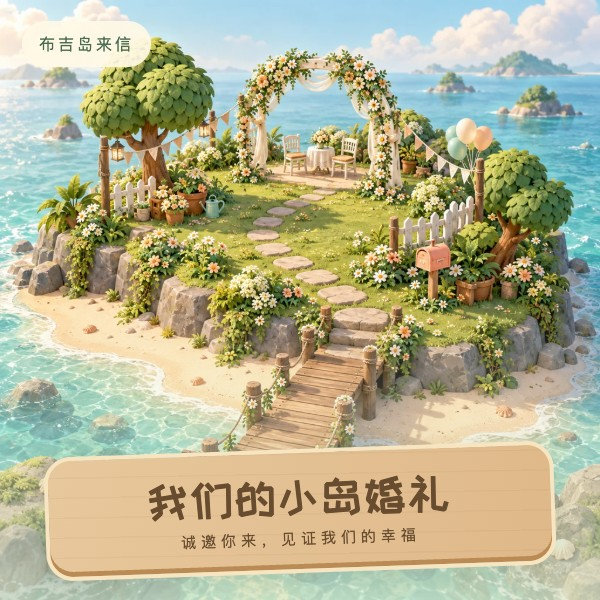
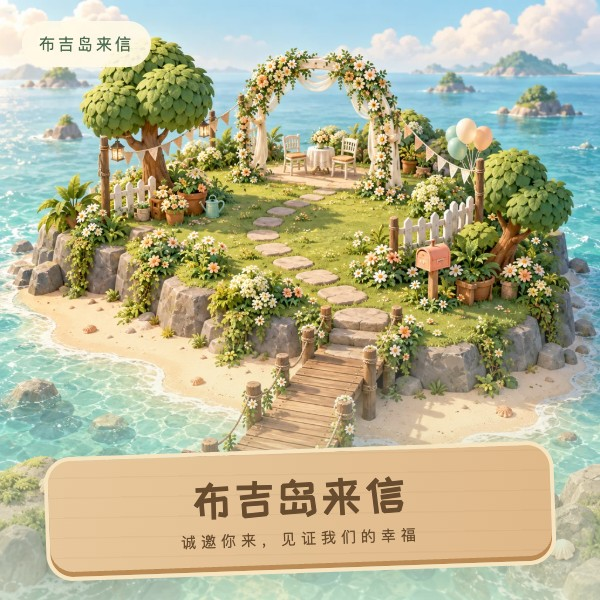
feat: rename invitation title to 布吉岛来信

Changed region(s): [[0.24, 0.78, 0.75, 0.87]]

diff --git a/index.html b/index.html
@@ -11,14 +11,14 @@
       name="description"
       content="诚邀您来小岛见证我们的幸福｜青州海岱禧合酒店"
     />
-    <meta property="og:title" content="我们的小岛婚礼" />
+    <meta property="og:title" content="布吉岛来信" />
     <meta
       property="og:description"
       content="诚邀您来小岛见证我们的幸福｜青州海岱禧合酒店"
     />
     <!-- 可修改：正式部署后，将 og:image 和 CONFIG.share.image 改为公网 HTTPS 分享插画地址。微信不读取 data URL 缩略图。 -->
     <meta property="og:image" content="" />
-    <title>刁勇辰与李汝静 · 我们的小岛婚礼</title>
+    <title>刁勇辰与李汝静 · 布吉岛来信</title>
     <!-- Tailwind CSS 3.4.17 离线编译，仅包含本页实际使用的工具类。 -->
     <style id="tailwind-css">
       *,
@@ -2539,7 +2539,7 @@
         <div class="cover-copy">
           <div class="edition">一封来自小岛的幸福邀请</div>
           <h1 id="cover-title">
-            <span>我们的小岛</span><span class="second-line">婚礼</span>
+            <span>布吉岛</span><span class="second-line">来信</span>
           </h1>
           <p class="cover-subtitle">邀请你一起见证幸福时刻</p>
         </div>
@@ -3162,7 +3162,7 @@
           { name: "幸福观察员", text: "一定要一直开心下去！" },
         ],
         share: {
-          title: "我们的小岛婚礼",
+          title: "布吉岛来信",
           description: "诚邀您来小岛见证我们的幸福｜青州海岱禧合酒店",
           image: "", // 可修改：公网 HTTPS 分享封面地址。可上传 assets/island-share.jpg，不可用 base64 或 file://
           link: "", // 可修改：线上请柬网址；为空时使用当前页面去除 # 的网址
@@ -3269,7 +3269,7 @@
                   ? dateWeek
                   : dateWeek + " 开始"),
         );
-        document.title = `${CONFIG.groom}与${CONFIG.bride} · 我们的小岛婚礼`;
+        document.title = `${CONFIG.groom}与${CONFIG.bride} · 布吉岛来信`;
         const storyMap = $("#story-map");
         CONFIG.story.forEach((s, i) => {
           const stop = el("div", "story-stop reveal");

diff --git a/README.md b/README.md
@@ -1,4 +1,4 @@
-# 我们的小岛婚礼 · 单文件 H5
+# 布吉岛来信 · 单文件 H5
 
 主文件为 `index.html`。HTML、离线编译的 Tailwind CSS、原生 JavaScript、开源标题字体及原创岛屿插画均在此文件内。无需安装依赖，双击即可打开；正式分享时请部署到可公开访问的 HTTPS 静态网站。
 
